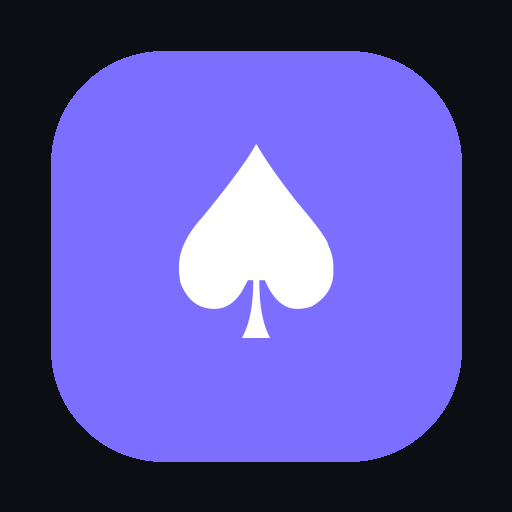
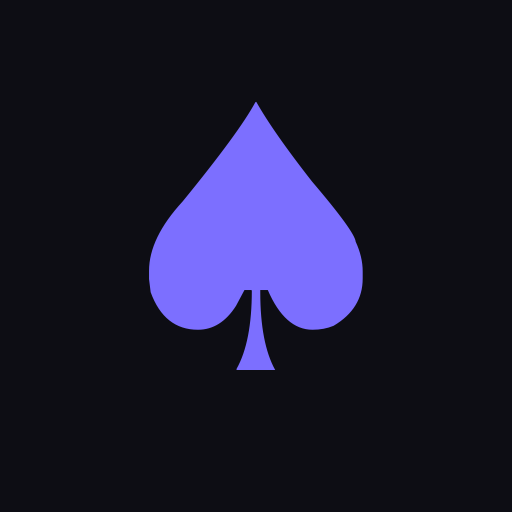
Add files via upload

diff --git a/index.html b/index.html
@@ -28,11 +28,9 @@ color: #eeeef5;
 font-family: -apple-system, BlinkMacSystemFont, ‘Helvetica Neue’, Helvetica, Arial, sans-serif;
 font-size: 16px;
 -webkit-font-smoothing: antialiased;
-height: 100%;
 overflow: hidden;
-position: fixed;
 width: 100%;
-top: 0; left: 0;
+height: 100%;
 }
 
 /* ────────────────────────────
@@ -44,10 +42,12 @@ Safe areas driven by JS below.
 #app {
 position: fixed;
 top: 0; left: 0; right: 0; bottom: 0;
+width: 100%;
+max-width: 100%;
 display: flex;
 flex-direction: column;
 background: #0d0d14;
-/* push content below notch/dynamic-island */
+overflow: hidden;
 }
 
 #status-bar-spacer {
@@ -79,6 +79,8 @@ overflow-x: hidden;
 overscroll-behavior: none;
 /* bottom padding = nav bar (58px) + home indicator */
 padding: 16px 16px calc(58px + env(safe-area-inset-bottom) + 12px);
+padding-left: max(16px, env(safe-area-inset-left));
+padding-right: max(16px, env(safe-area-inset-right));
 width: 100%;
 min-width: 0;
 }
@@ -91,10 +93,11 @@ flex-shrink: 0;
 display: flex;
 align-items: center;
 justify-content: space-between;
-padding: 0 16px;
-height: 52px;
+padding: 12px 16px;
 background: #0d0d14;
 border-bottom: 1px solid #1e1e2e;
+width: 100%;
+box-sizing: border-box;
 }
 .topbar h1 {
 font-size: 20px;
@@ -165,12 +168,14 @@ box-shadow: 0 0 0 4px #0a0a11, 0 4px 20px rgba(124,111,255,0.6);
 /* ────────────────────────────
 STAT CARDS
 ──────────────────────────── */
-.stat-grid { display: grid; grid-template-columns: 1fr 1fr; gap: 10px; margin-bottom: 16px; }
+.stat-grid { display: grid; grid-template-columns: 1fr 1fr; gap: 10px; margin-bottom: 16px; width: 100%; box-sizing: border-box; }
 .stat-box {
 background: #13131e;
 border: 1px solid #1e1e2e;
 border-radius: 12px;
 padding: 14px 12px;
+min-width: 0;
+overflow: hidden;
 }
 .stat-lbl { font-size: 10px; font-weight: 600; color: #44445a; text-transform: uppercase; letter-spacing: 0.6px; margin-bottom: 6px; }
 .stat-val { font-size: 21px; font-weight: 700; letter-spacing: -0.5px; color: #eeeef5; }